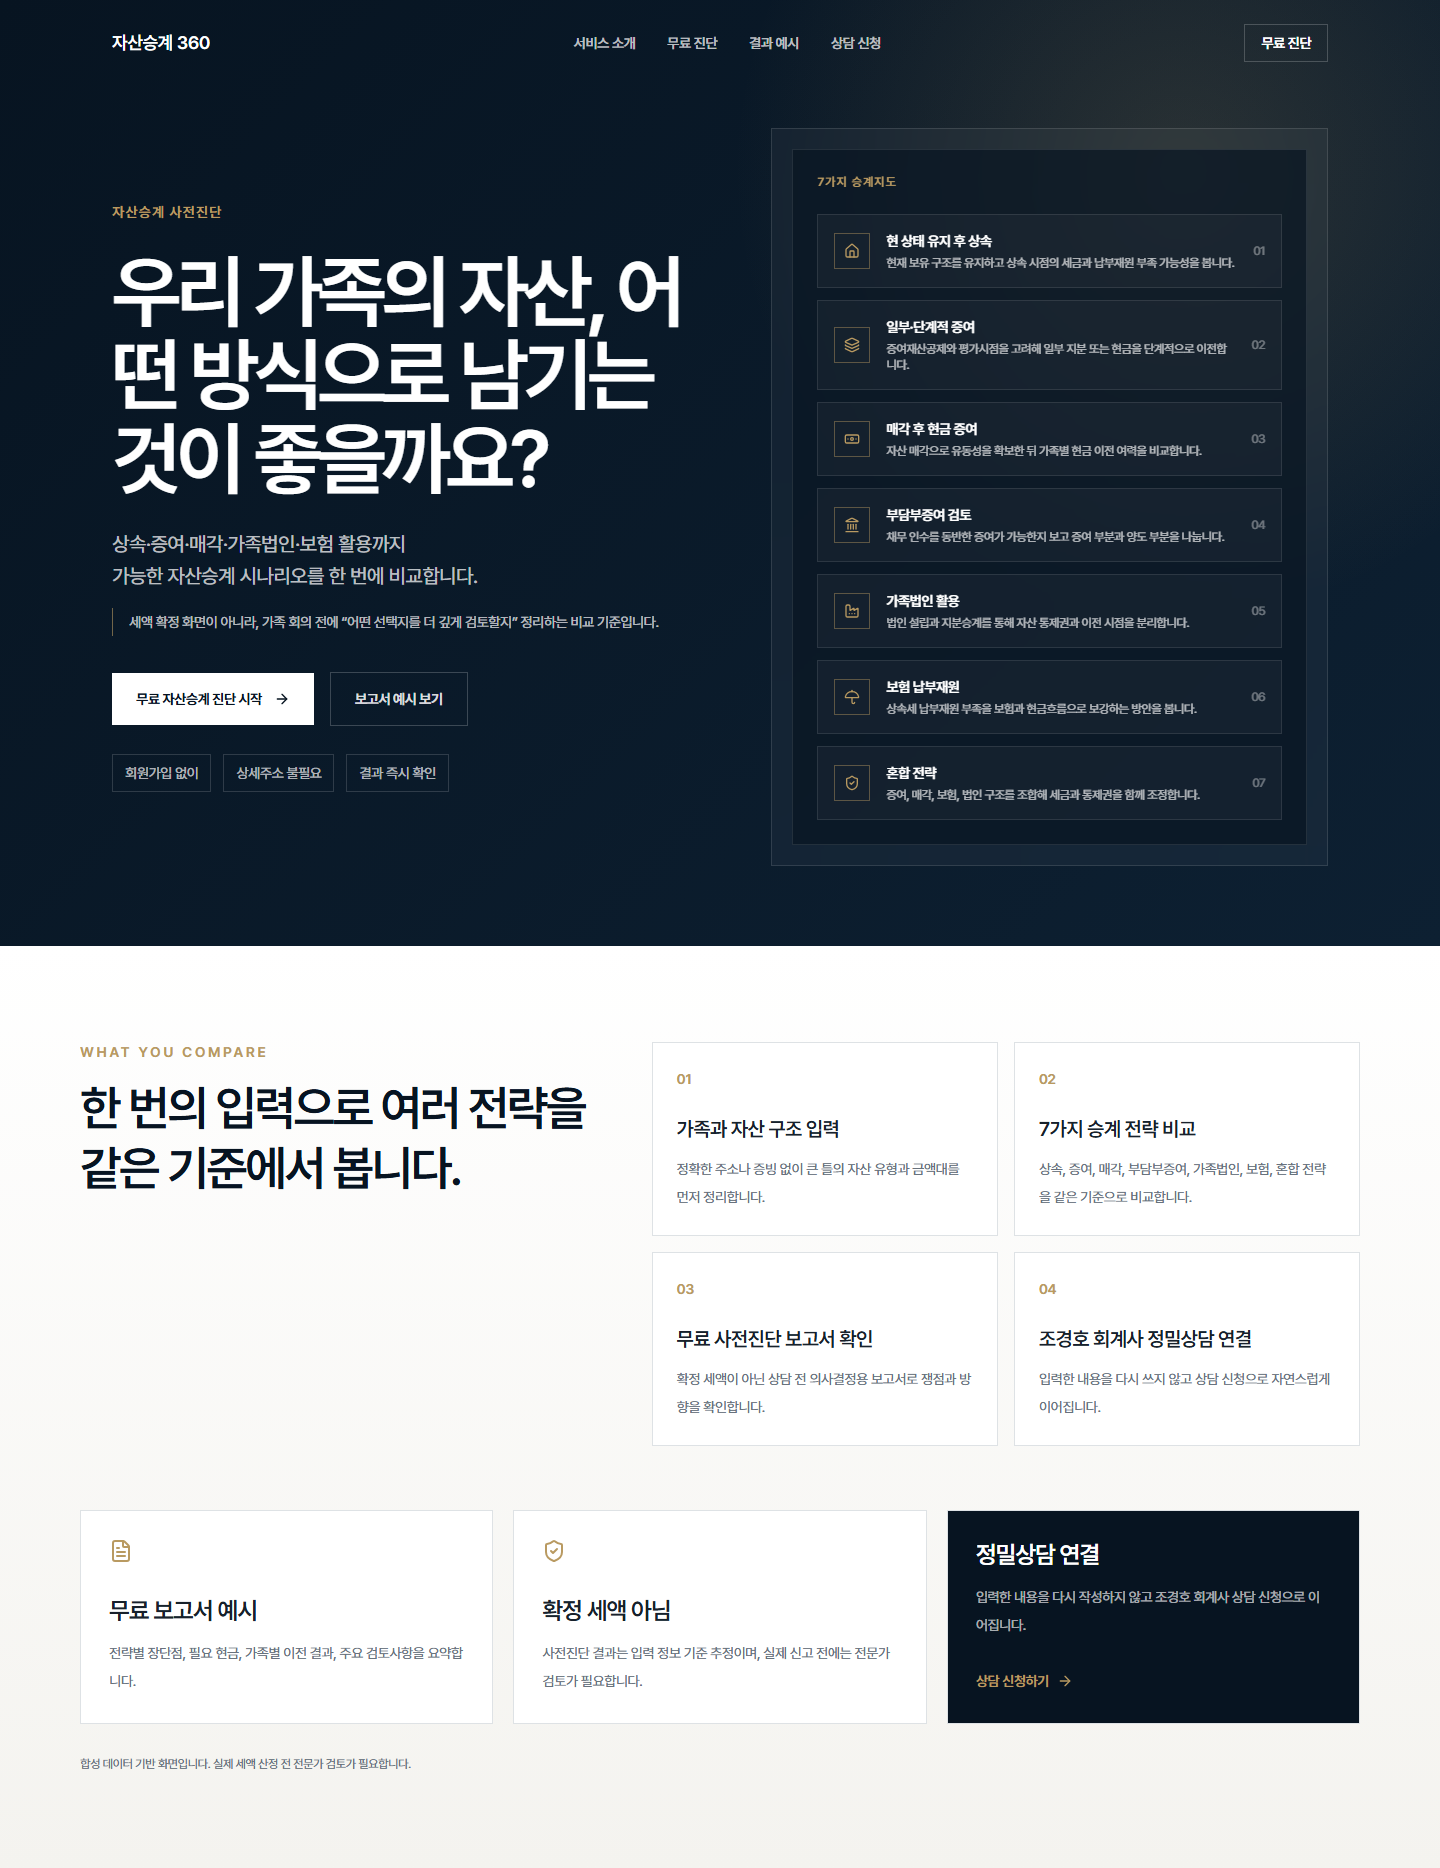
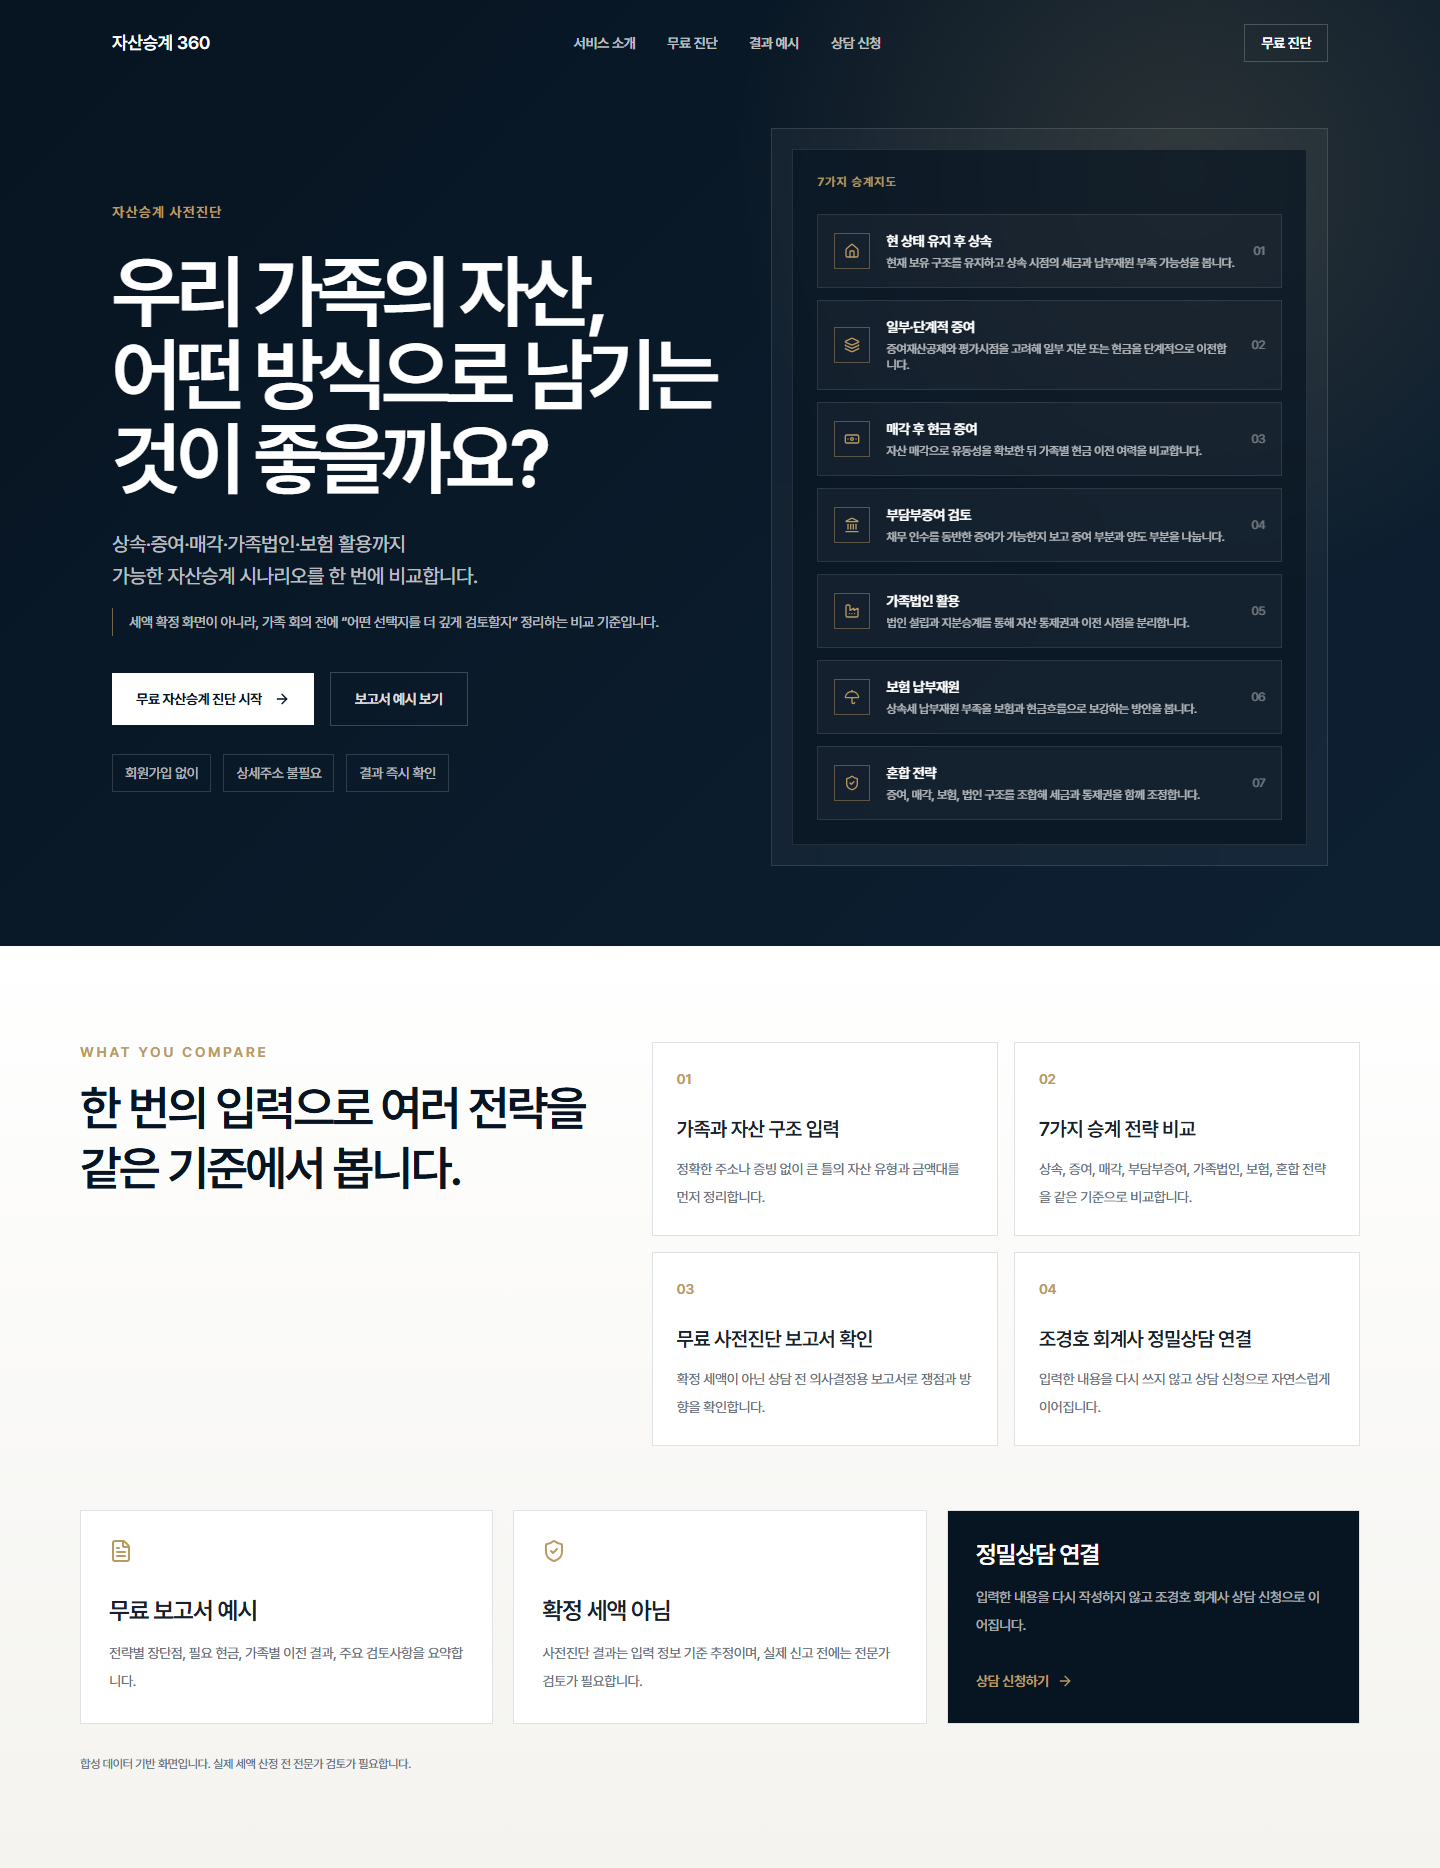
Address final PR 2 design audit

Changed region(s): [[0.0625, 0.1242, 0.5, 0.2173]]

diff --git a/app/report-preview/page.tsx b/app/report-preview/page.tsx
@@ -1,28 +1,113 @@
 import Link from "next/link";
-import { ArrowLeft } from "lucide-react";
+import { ArrowLeft, ArrowRight, CircleAlert, FileText, ShieldCheck, WalletCards } from "lucide-react";
 import { PublicLightNav } from "@/components/PublicLightNav";
 import { PrintButton } from "@/components/PrintButton";
 import { StrategyComparison } from "@/components/StrategyComparison";
+import { expertIssues, projectSnapshot, strategyBranches } from "@/lib/mockData";
 
 export default function ReportPreviewPage() {
   return (
     <main className="min-h-screen bg-[var(--background)]">
-      <PublicLightNav />
+      <div className="print:hidden">
+        <PublicLightNav />
+      </div>
       <section className="mx-auto max-w-5xl px-6 py-12 lg:px-8">
-        <Link href="/precheck/result" className="inline-flex items-center gap-2 text-sm font-semibold text-[var(--navy-900)]">
+        <Link href="/precheck/result" className="inline-flex items-center gap-2 text-sm font-semibold text-[var(--navy-900)] print:hidden">
           <ArrowLeft className="h-4 w-4" /> 결과 비교로 돌아가기
         </Link>
-        <article className="mt-8 border border-[var(--border)] bg-white p-7 md:p-10">
-          <p className="text-sm font-semibold uppercase tracking-[0.18em] text-[var(--gold)]">Sample report</p>
+        <article className="report-sheet mt-8 border border-[var(--border)] bg-white p-7 md:p-10 print:mt-0 print:border-0">
+          <p className="text-sm font-semibold tracking-[0.08em] text-[var(--gold)]">무료 보고서 미리보기</p>
           <h1 className="mt-4 text-4xl font-semibold tracking-[-0.055em] text-[var(--navy-950)]">무료 자산승계 사전진단 보고서</h1>
           <p className="mt-4 text-sm leading-7 text-[var(--muted)]">
-            이 보고서는 합성 입력값으로 구성한 정적 미리보기입니다. 브라우저 인쇄 기능으로 PDF 저장을 실행할 수 있습니다.
+            합성 입력값으로 구성한 가족 회의용 미리보기입니다. 확정 세액이 아니라 상담 전 비교 기준과 추가 확인사항을 정리합니다.
           </p>
-          <PrintButton />
-          <p className="mt-3 text-xs text-[var(--muted)] print:hidden">단축키 Ctrl+P 또는 브라우저 메뉴에서 PDF 저장을 선택합니다.</p>
-          <div className="mt-10">
-            <StrategyComparison />
+          <div className="print:hidden">
+            <PrintButton />
           </div>
+          <p className="mt-3 text-xs text-[var(--muted)] print:hidden">단축키 Ctrl+P 또는 브라우저 메뉴에서 PDF 저장을 선택합니다.</p>
+
+          <section className="report-section mt-10 grid gap-4 md:grid-cols-4">
+            {[
+              ["총자산", projectSnapshot.totalAssets],
+              ["순자산", projectSnapshot.netAssets],
+              ["가용 현금", projectSnapshot.cashAvailable],
+              ["납부재원 부족", projectSnapshot.estimatedFundingGap]
+            ].map(([label, value]) => (
+              <article key={label} className="border border-[var(--border)] bg-[var(--ivory)] p-5">
+                <p className="text-sm text-[var(--muted)]">{label}</p>
+                <strong className="mt-3 block text-3xl tracking-[-0.05em] text-[var(--navy-950)]">{value}</strong>
+              </article>
+            ))}
+          </section>
+
+          <section className="report-section mt-10 grid gap-5 md:grid-cols-2">
+            <article className="border border-[var(--border)] p-6">
+              <FileText className="h-5 w-5 text-[var(--gold)]" />
+              <h2 className="mt-5 text-2xl font-semibold tracking-[-0.04em]">가족·자산 요약</h2>
+              <p className="mt-3 text-sm leading-7 text-[var(--muted)]">
+                부모 2명과 자녀 2명을 기준으로, 부동산 42억·금융자산 8억·보험 납부재원 후보 5억을 비교합니다.
+              </p>
+            </article>
+            <article className="border border-[var(--border)] p-6">
+              <ShieldCheck className="h-5 w-5 text-[var(--success)]" />
+              <h2 className="mt-5 text-2xl font-semibold tracking-[-0.04em]">선택한 승계 목표</h2>
+              <p className="mt-3 text-sm leading-7 text-[var(--muted)]">
+                세금 부담, 즉시 필요현금, 부모 통제권, 자녀 이전효과, 납부재원 부족액을 함께 보는 균형형 검토입니다.
+              </p>
+            </article>
+          </section>
+
+          <section className="report-section mt-10">
+            <div className="mb-5 flex items-end justify-between gap-4">
+              <div>
+                <p className="text-sm font-semibold text-[var(--gold)]">7개 전략 비교</p>
+                <h2 className="mt-2 text-2xl font-semibold tracking-[-0.04em]">같은 기준으로 본 선택지</h2>
+              </div>
+            </div>
+            <StrategyComparison />
+          </section>
+
+          <section className="report-section mt-10 grid gap-5 md:grid-cols-3">
+            <article className="border border-[var(--border)] bg-[var(--navy-950)] p-6 text-white">
+              <WalletCards className="h-5 w-5 text-[var(--gold)]" />
+              <h2 className="mt-5 text-2xl font-semibold tracking-[-0.04em]">납부재원 부족 분석</h2>
+              <p className="mt-3 text-sm leading-7 text-white/68">현 상태 유지 후 상속 시 부족액은 7억 수준으로, 보험·단계적 이전·일부 매각 조합 검토가 필요합니다.</p>
+            </article>
+            <article className="border border-[var(--border)] p-6">
+              <h2 className="text-2xl font-semibold tracking-[-0.04em]">가족법인 검토 가능성</h2>
+              <p className="mt-3 text-sm leading-7 text-[var(--muted)]">{strategyBranches[4].status_detail} 정관, 지분평가, 운영비 가정을 먼저 확인합니다.</p>
+            </article>
+            <article className="border border-[var(--border)] p-6">
+              <h2 className="text-2xl font-semibold tracking-[-0.04em]">보험 검토 가능성</h2>
+              <p className="mt-3 text-sm leading-7 text-[var(--muted)]">{strategyBranches[5].status_detail} 계약자·수익자 구조가 핵심 확인사항입니다.</p>
+            </article>
+          </section>
+
+          <section className="report-section mt-10 grid gap-5 md:grid-cols-[0.95fr_1.05fr]">
+            <article className="border border-[var(--border)] p-6">
+              <CircleAlert className="h-5 w-5 text-[var(--warning)]" />
+              <h2 className="mt-5 text-2xl font-semibold tracking-[-0.04em]">주요 위험신호</h2>
+              <ul className="mt-5 grid gap-3 text-sm leading-6 text-[var(--muted)]">
+                {expertIssues.map((issue) => (
+                  <li key={issue.title}><span className="font-semibold text-[var(--text)]">{issue.title}</span> · {issue.body}</li>
+                ))}
+              </ul>
+            </article>
+            <article className="border border-[var(--border)] p-6">
+              <h2 className="text-2xl font-semibold tracking-[-0.04em]">추가 필요정보</h2>
+              <div className="mt-5 grid gap-3 text-sm leading-6 text-[var(--muted)]">
+                <p>취득가액·보유기간, 최근 10년 증여 내역, 채무승계 증빙, 보험계약 상세, 가족별 의사결정 우선순위가 필요합니다.</p>
+                <p>이 정보가 확인되면 사전진단 결과를 정밀 상담용 프로젝트로 이어갈 수 있습니다.</p>
+              </div>
+            </article>
+          </section>
+
+          <section className="mt-10 flex flex-wrap items-center gap-4 border border-[var(--border)] bg-[var(--navy-950)] p-6 text-white print:hidden">
+            <p className="flex-1 text-sm leading-6 text-white/70">다음 단계는 가족 회의에서 검토 후보를 좁힌 뒤, 필요한 자료를 정리해 상담으로 연결하는 것입니다.</p>
+            <Link href="/consultation" className="inline-flex items-center gap-2 bg-white px-5 py-3 text-sm font-semibold text-[var(--navy-950)]">
+              이 결과로 조경호 회계사에게 상담하기 <ArrowRight className="h-4 w-4" />
+            </Link>
+          </section>
         </article>
       </section>
     </main>

diff --git a/components/StrategyComparison.tsx b/components/StrategyComparison.tsx
@@ -1,4 +1,5 @@
 import { strategyBranches } from "@/lib/mockData";
+import type { Strategy } from "@/lib/mockData";
 
 const fields = [
   ["현재 세금·비용", "current_tax_and_cost"],
@@ -11,6 +12,15 @@ const fields = [
   ["자산 통제권", "control_level"],
   ["실행 복잡도", "complexity"]
 ] as const;
+
+type MetricKey = Extract<keyof Strategy, typeof fields[number][1]>;
+
+const mobileDetailFields = fields.filter(([, key]) => !["total_burden", "immediate_cash_required", "liquidity_gap"].includes(key));
+const mobileSummaryFields: ReadonlyArray<readonly [string, MetricKey]> = [
+  ["총 부담", "total_burden"],
+  ["즉시 필요현금", "immediate_cash_required"],
+  ["납부재원 부족액", "liquidity_gap"]
+];
 
 function StatusBadge({ status }: Readonly<{ status: string }>) {
   return <span className="inline-flex border border-[var(--border)] bg-[var(--ivory)] px-3 py-1 text-xs font-semibold text-[var(--navy-900)]">{status}</span>;
@@ -26,11 +36,11 @@ export function StrategyComparison() {
               <th className="px-4 py-4">전략</th>
               <th className="px-4 py-4">현재 세금·비용</th>
               <th className="px-4 py-4">미래 세금·비용</th>
-              <th className="px-4 py-4">총 부담</th>
-              <th className="px-4 py-4">즉시 현금</th>
+              <th className="bg-white px-4 py-4 text-[var(--navy-950)]">총 부담</th>
+              <th className="bg-white px-4 py-4 text-[var(--navy-950)]">즉시 현금</th>
               <th className="px-4 py-4">부모 잔여</th>
               <th className="px-4 py-4">자녀 이전</th>
-              <th className="px-4 py-4">부족액</th>
+              <th className="bg-white px-4 py-4 text-[var(--navy-950)]">부족액</th>
               <th className="px-4 py-4">통제권</th>
               <th className="px-4 py-4">복잡도</th>
               <th className="px-4 py-4">상태</th>
@@ -45,11 +55,11 @@ export function StrategyComparison() {
                 </td>
                 <td className="px-4 py-5 text-sm">{strategy.current_tax_and_cost}</td>
                 <td className="px-4 py-5 text-sm">{strategy.future_tax_and_cost}</td>
-                <td className="px-4 py-5 text-sm font-semibold">{strategy.total_burden}</td>
-                <td className="px-4 py-5 text-sm">{strategy.immediate_cash_required}</td>
+                <td className="bg-[var(--ivory)]/45 px-4 py-5 text-base font-bold text-[var(--navy-950)]">{strategy.total_burden}</td>
+                <td className="bg-[var(--ivory)]/45 px-4 py-5 text-base font-bold text-[var(--navy-950)]">{strategy.immediate_cash_required}</td>
                 <td className="px-4 py-5 text-sm">{strategy.parent_remaining_assets}</td>
                 <td className="px-4 py-5 text-sm">{strategy.child_transferred_assets}</td>
-                <td className="px-4 py-5 text-sm">{strategy.liquidity_gap}</td>
+                <td className="bg-[var(--ivory)]/45 px-4 py-5 text-base font-bold text-[var(--navy-950)]">{strategy.liquidity_gap}</td>
                 <td className="px-4 py-5 text-sm">{strategy.control_level}</td>
                 <td className="px-4 py-5 text-sm">{strategy.complexity}</td>
                 <td className="px-4 py-5"><StatusBadge status={strategy.calculation_status} /></td>
@@ -75,16 +85,27 @@ export function StrategyComparison() {
               </div>
               <div className="mt-5">
                 <StatusBadge status={strategy.calculation_status} />
-                <p className="mt-3 text-sm leading-6 text-[var(--muted)]">{strategy.status_detail}</p>
               </div>
               <dl className="mt-5 grid gap-3">
-                {fields.map(([label, key]) => (
+                {mobileSummaryFields.map(([label, key]) => (
                   <div key={key} className="grid grid-cols-[7.5rem_1fr] gap-3 border-t border-[var(--border)] pt-3 text-sm">
                     <dt className="text-[var(--muted)]">{label}</dt>
                     <dd className="font-semibold text-[var(--text)]">{strategy[key]}</dd>
                   </div>
                 ))}
               </dl>
+              <p className="mt-4 border-l-2 border-[var(--gold)] pl-3 text-sm leading-6 text-[var(--muted)]">{strategy.key_review_items[0]} · {strategy.status_detail}</p>
+              <details className="mt-5 border-t border-[var(--border)] pt-4">
+                <summary className="cursor-pointer text-sm font-semibold text-[var(--navy-900)]">상세 지표 펼치기</summary>
+                <dl className="mt-4 grid gap-3">
+                  {mobileDetailFields.map(([label, key]) => (
+                    <div key={key} className="grid grid-cols-[7.5rem_1fr] gap-3 border-t border-[var(--border)] pt-3 text-sm">
+                      <dt className="text-[var(--muted)]">{label}</dt>
+                      <dd className="font-semibold text-[var(--text)]">{strategy[key]}</dd>
+                    </div>
+                  ))}
+                </dl>
+              </details>
             </article>
           );
         })}

diff --git a/app/expert/workspace/page.tsx b/app/expert/workspace/page.tsx
@@ -3,12 +3,14 @@ import { ExpertShell } from "@/components/ExpertShell";
 import { strategyBranches, timelineEvents } from "@/lib/mockData";
 
 export default function ExpertWorkspacePage() {
+  const activeStrategyIndex = 4;
+
   return (
     <ExpertShell>
       <main className="px-6 py-8 lg:px-10">
         <div className="flex gap-2 overflow-x-auto border-b border-[var(--border)] pb-3 no-scrollbar">
           {strategyBranches.map((strategy, index) => (
-            <button key={strategy.name} type="button" className={`shrink-0 border px-4 py-3 text-sm font-semibold ${index === 3 ? "border-[var(--gold)] bg-white text-[var(--navy-950)]" : "border-[var(--border)] text-[var(--muted)]"}`}>
+            <button key={strategy.name} type="button" aria-selected={index === activeStrategyIndex} className={`shrink-0 border px-4 py-3 text-sm font-semibold ${index === activeStrategyIndex ? "border-[var(--gold)] bg-white text-[var(--navy-950)]" : "border-[var(--border)] text-[var(--muted)]"}`}>
               {strategy.name}
             </button>
           ))}
@@ -97,9 +99,19 @@ export default function ExpertWorkspacePage() {
         <section id="sources" className="mt-6 border border-[var(--border)] bg-white p-6">
           <p className="text-sm font-semibold tracking-[0.08em] text-[var(--gold)]">규칙·출처</p>
           <h2 className="mt-3 text-2xl font-semibold tracking-[-0.04em]">공식 근거 검토 현황</h2>
-          <p className="mt-4 text-sm leading-7 text-[var(--muted)]">
-            세법 원문, 예규, 심판례 연결 상태를 보여주는 전문가 전용 영역입니다. 이 화면은 합성 상태만 표시하며 실제 세법 조회나 계산 엔진에는 연결되어 있지 않습니다.
-          </p>
+          <div className="mt-5 grid gap-4 md:grid-cols-3">
+            {[
+              ["연결 규칙", "18개", "상속·증여·양도·취득 관련 검토 규칙"],
+              ["공식 출처", "24건", "법령·예규·심판례 후보"],
+              ["검토 대기", "6건", "전문가 확인 후 보고서 반영"]
+            ].map(([label, value, body]) => (
+              <article key={label} className="border border-[var(--border)] bg-[var(--ivory)] p-5">
+                <p className="text-sm text-[var(--muted)]">{label}</p>
+                <strong className="mt-3 block text-3xl tracking-[-0.05em] text-[var(--navy-950)]">{value}</strong>
+                <p className="mt-3 text-sm leading-6 text-[var(--muted)]">{body}</p>
+              </article>
+            ))}
+          </div>
         </section>
       </main>
     </ExpertShell>

diff --git a/app/globals.css b/app/globals.css
@@ -54,7 +54,8 @@ main {
 
 h1,
 h2 {
-  overflow-wrap: anywhere;
+  overflow-wrap: normal;
+  word-break: keep-all;
 }
 
 a {
@@ -95,5 +96,26 @@ textarea {
   h1 {
     max-width: calc(100vw - 3rem);
     word-break: keep-all;
+  }
+}
+
+@media print {
+  @page {
+    size: A4;
+    margin: 14mm;
+  }
+
+  html,
+  body {
+    background: #ffffff;
+  }
+
+  .report-sheet {
+    padding: 0 !important;
+  }
+
+  .report-section {
+    break-inside: avoid;
+    page-break-inside: avoid;
   }
 }
